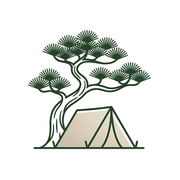
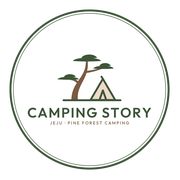
앱 아이콘·로고를 새 원형 엠블럼(2026-10-07)으로 교체, 캐시 v7

Changed region(s): [[0.0278, 0.0278, 0.9444, 0.9444]]

diff --git a/sw.js b/sw.js
@@ -1,5 +1,5 @@
 // 캠핑스토리 앱 껍데기(화면·아이콘)만 저장. 예약 데이터는 항상 서버에서 새로 받는다.
-var CACHE = 'cs-shell-v6';
+var CACHE = 'cs-shell-v7';
 var SHELL = ['./', 'index.html', 'manifest.webmanifest', 'logo.jpg', 'symbol.jpg', 'icon-192.png', 'icon-512.png', 'favicon.png'];
 self.addEventListener('install', function (e) { e.waitUntil(caches.open(CACHE).then(function (c) { return c.addAll(SHELL); })); self.skipWaiting(); });
 self.addEventListener('activate', function (e) {
